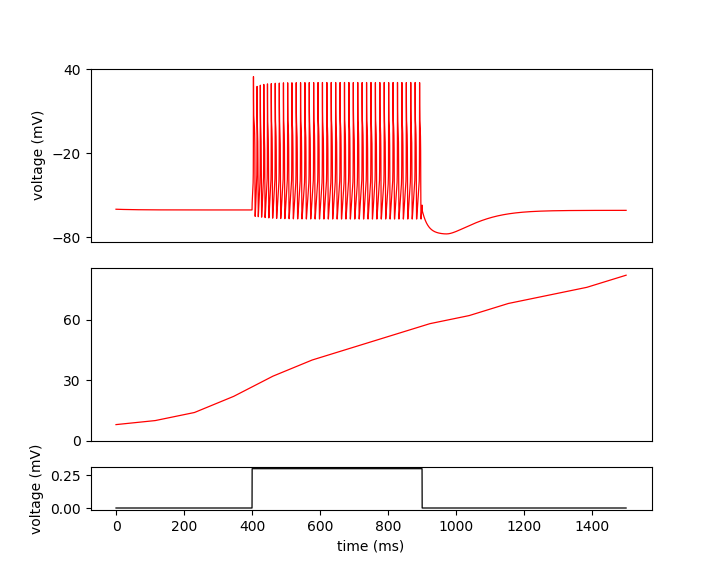
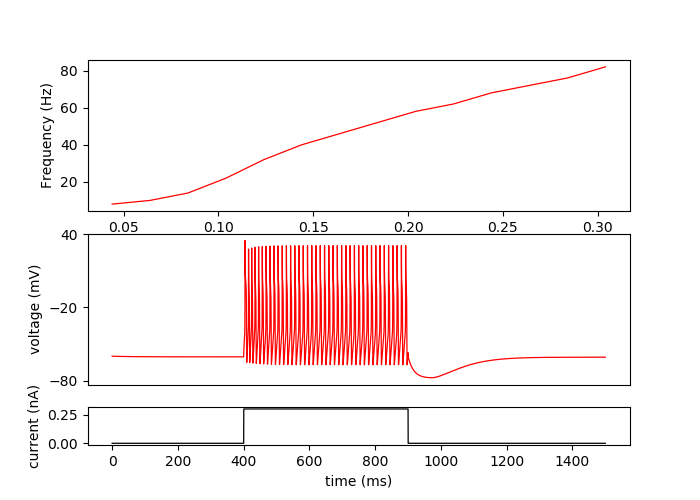
updated SOM figures

diff --git a/cells/SOMCell/plot.py b/cells/SOMCell/plot.py
@@ -22,20 +22,22 @@ fi = h.reported.as_numpy()
 
 fig = plt.figure(figsize = (7,5))
 gs = mpl.gridspec.GridSpec(3, 1, height_ratios=[4,4,1])
+
 ax = plt.subplot(gs[0])
+plt.ylabel("Frequency (Hz)")
+plt.plot(current_inj, fi, color = 'red', lw = 0.9)
+
+
+ax = plt.subplot(gs[1])
 plt.plot(time, trace, color = 'red', lw = 0.9)
 plt.ylabel('voltage (mV)')
 ax.set_xticks([])
 ax.set_yticks([-80, -20, 40])
 
-ax = plt.subplot(gs[1])
-plt.plot(current_inj, fi, color = 'red', lw = 0.9)
-ax.set_xticks([])
-ax.set_yticks([0, 30, 60])
 
 ax = plt.subplot(gs[2])
 plt.plot(time, inj, color = 'black', lw = 0.9)
-plt.ylabel('voltage (mV)')
+plt.ylabel('current (nA)')
 plt.xlabel('time (ms)')
 
 plt.show()
